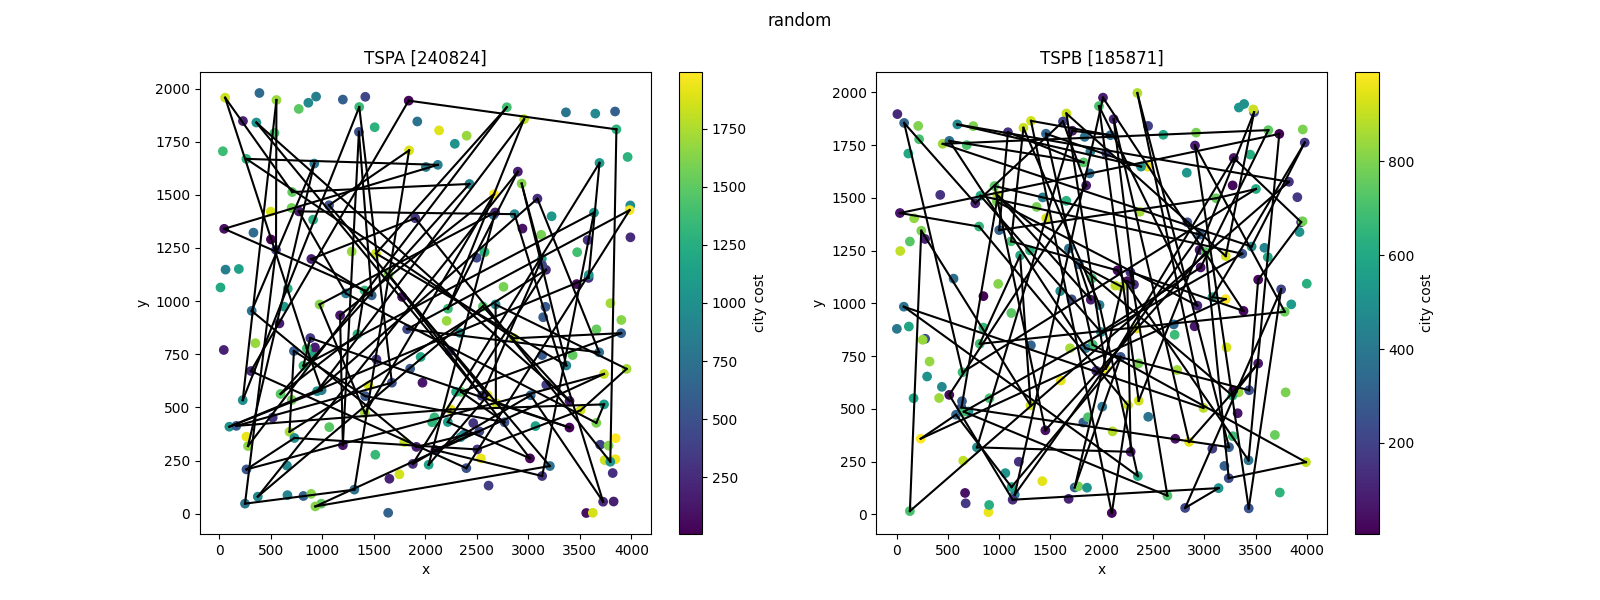
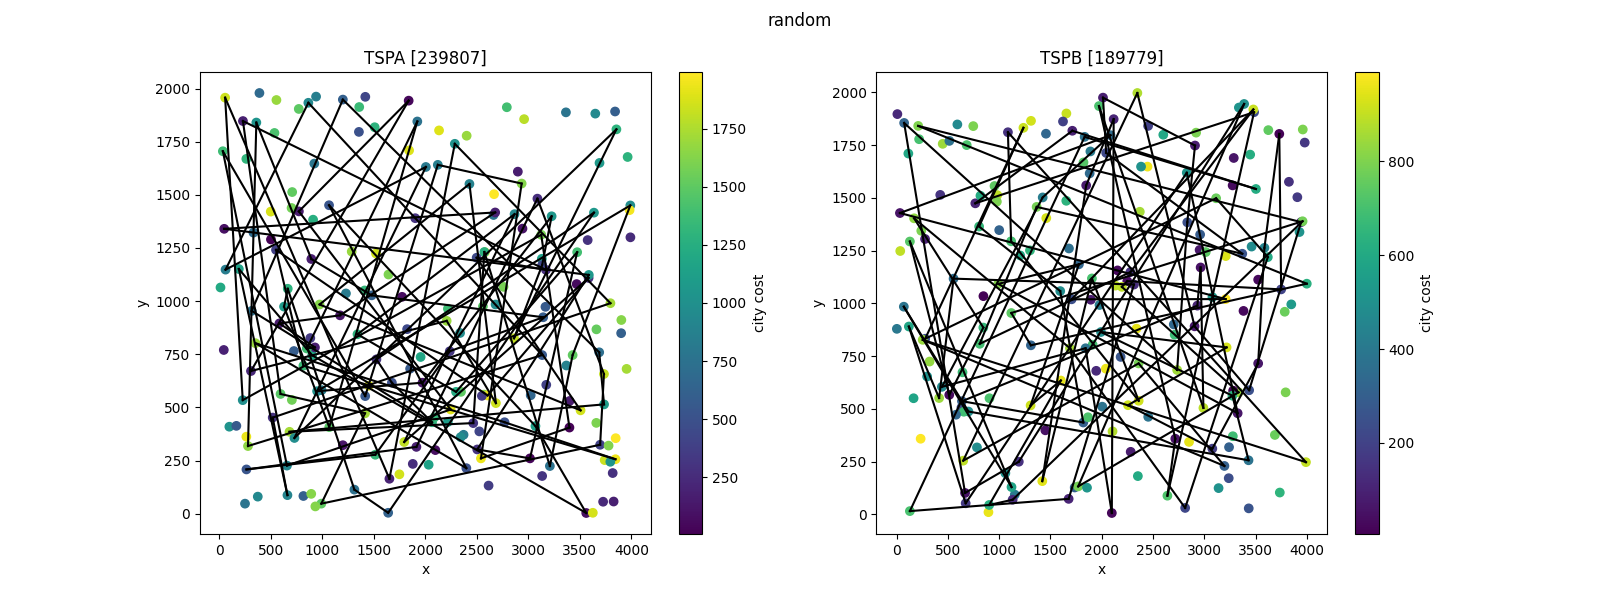
update:)

diff --git a/visualization.py b/visualization.py
@@ -131,6 +131,12 @@ tspb_greedy_any_position = parse_solution(
 )
 tspa_greedy_cycle = parse_solution(read_file("results/tspa_greedy_cycle.txt"))
 tspb_greedy_cycle = parse_solution(read_file("results/tspb_greedy_cycle.txt"))
+tspa_greedy_cycle_regret = parse_solution(
+    read_file("results/tspa_greedy_cycle_regret.txt")
+)
+tspb_greedy_cycle_regret = parse_solution(
+    read_file("results/tspb_greedy_cycle_regret.txt")
+)
 
 
 plot_cities("cities", tspa, tspb)
@@ -171,3 +177,12 @@ plot_solution(
     tspb_greedy_cycle,
 )
 plt.savefig("plots/greedy_cycle.png")
+
+plot_solution(
+    "greedy cycle regret",
+    tspa,
+    tspa_greedy_cycle_regret,
+    tspb,
+    tspb_greedy_cycle_regret,
+)
+plt.savefig("plots/greedy_cycle_regret.png")

diff --git a/README.md b/README.md
@@ -95,7 +95,7 @@ function greedyAtAnyPositionSolution(problemInstance, availableCities, currentSo
    greedyAtAnyPositionSolution(problemInstance, availableCities, currentSolution)
 ```
 
-![greedy_any_position.png](plots/greedy_any_position.png.png)
+![greedy_any_position.png](plots/greedy_any_position.png)
 
 - `TSPA greedy at any position` **best solution:** `[118 51 176 137 183 89 23 186 143 117 93 140 0 80 151 162 133 63 79 94 124 53 97 26 100 152 1 2 120 44 25 78 16 171 175 113 56 31 145 179 92 129 57 185 106 52 55 178 49 102 14 62 9 148 144 40 119 81 196 165 90 101 86 75 180 154 135 70 123 112 4 84 127 59 65 149 131 116 43 42 181 160 54 30 177 10 190 184 34 193 159 22 146 18 108 41 139 46 68 115]`
 - `TSPB greedy at any position` **best solution:** `[10 133 122 90 51 121 117 198 1 38 27 31 73 193 190 80 175 78 142 45 5 177 36 61 91 141 77 81 153 187 163 89 103 114 127 165 137 176 166 194 86 185 95 130 99 62 124 106 143 0 35 109 29 33 160 144 8 82 21 104 111 138 182 11 139 168 195 145 3 155 15 70 169 132 13 188 6 147 18 55 34 152 183 140 20 28 149 4 148 60 47 94 66 179 113 54 135 63 40 107]`
@@ -114,7 +114,7 @@ function greedyCycleSolution(problemInstance, availableCities, currentSolution, 
    greedyCycleSolution(problemInstance, availableCities, currentSolution)
 ```
 
-![greedy_cycle.png](plots/greedy_cycle.png.png)
+![greedy_cycle.png](plots/greedy_cycle.png)
 
 - `TSPA greedy cycle` **best solution:** `[0 46 68 139 193 41 115 5 42 181 159 69 108 18 22 146 34 160 48 54 30 177 10 190 4 112 84 35 184 43 116 65 59 118 51 151 133 162 123 127 70 135 180 154 53 100 26 86 75 44 25 16 171 175 113 56 31 78 145 179 92 57 52 185 119 40 196 81 90 165 106 178 14 144 62 9 148 102 49 55 129 120 2 101 1 97 152 124 94 63 79 80 176 137 23 186 89 183 143 117]`
 - `TSPB greedy cycle` **best solution:** `[80 162 175 78 142 36 61 91 141 97 187 165 127 89 103 137 114 113 194 166 179 185 99 130 22 66 94 47 148 60 20 28 149 4 140 183 152 170 34 55 18 62 124 106 128 95 86 176 180 163 153 81 77 21 87 82 8 56 144 111 0 35 109 29 160 33 49 11 43 134 147 6 188 169 132 13 161 70 3 15 145 195 168 139 182 138 104 25 177 5 45 136 73 164 31 54 117 198 193 190]`
